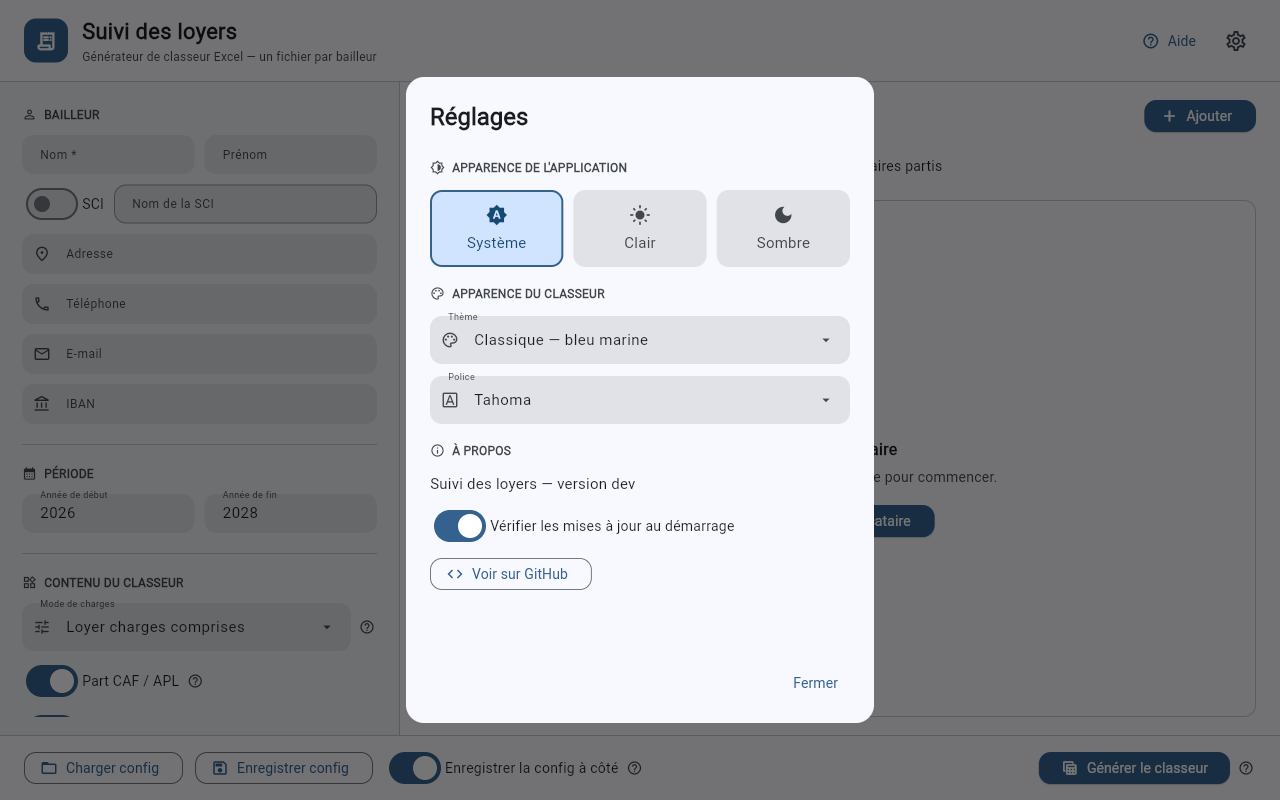
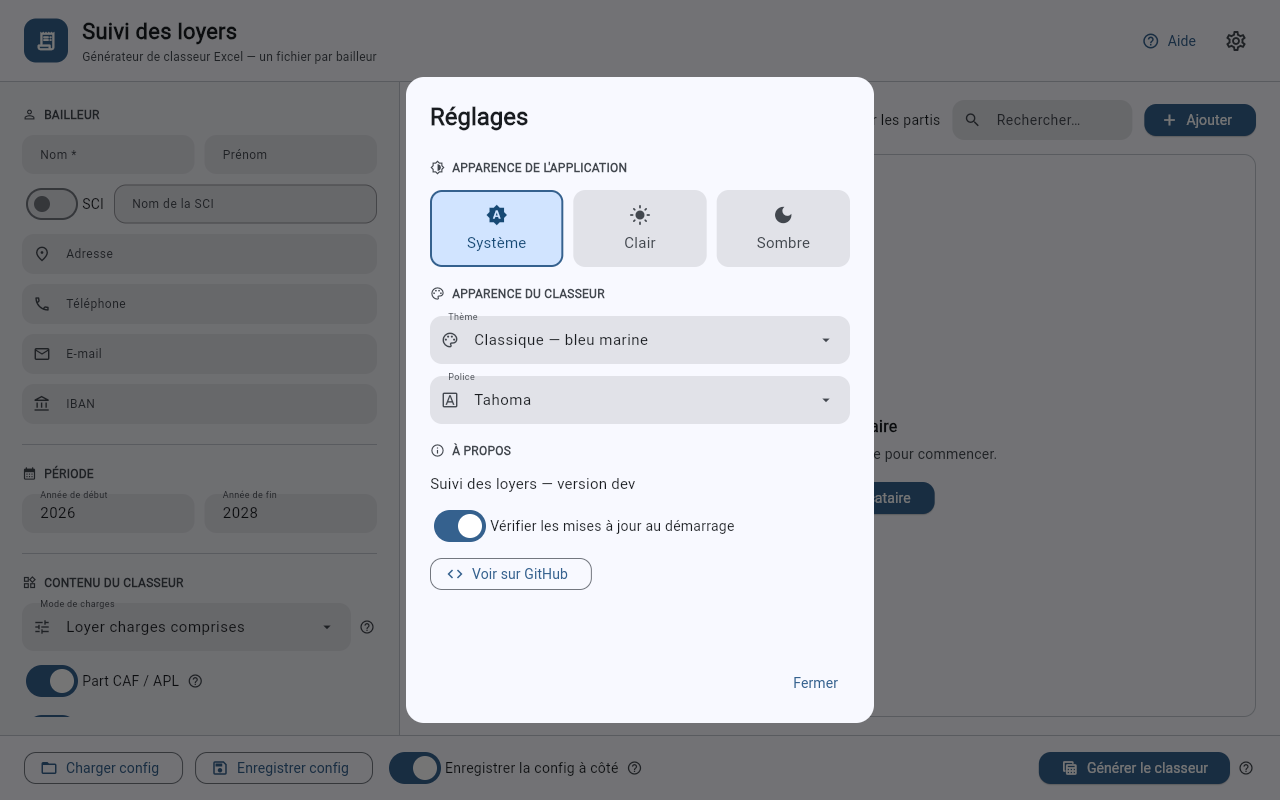
feat(ui): put the departed toggle, search and Add on the list title line
The tenant list used two lines above the table: the title with Add, then the
search field and the departed-tenants toggle. At the default window size they
now share the title line (toggle, search, Add), which gives the table back
about 46 px of height. The toggle label becomes "Afficher les partis" and the
search field narrows to 180 px so that everything fits.

The counter takes the free space of the line, with an ellipsis if needed, so
the controls do not move when its text changes ("2 / 3 · 1 parti masqué"
still fits at 1180 px). Below about 1130 px of window width the controls move
under the title instead of being clipped, and the search field then takes the
remaining width. The same controls are moved between the two layouts, which
Flet 1.0 supports: live resizing with a search in progress keeps the text and
the toggle state. README screenshots are updated.

diff --git a/interface_flet.py b/interface_flet.py
@@ -214,6 +214,20 @@ def _colonnes_pour_largeur(cols: list[dict], largeur: float | None) -> list[dict
     return gardees
 
 
+# Barre au-dessus de la liste : « Afficher les partis », la recherche et « Ajouter » sur la
+# ligne du titre. Sous LARGEUR_BARRE_UNE_LIGNE px de tableau, ils passent sous le titre au
+# lieu d'être coupés. Calibrés par rendu : une ligne à la largeur par défaut de la fenêtre
+# (1180 px, tableau ≈ 730 px), deux à la largeur minimale (1000 px, ≈ 550 px).
+LARGEUR_RECHERCHE = 180
+LARGEUR_BARRE_UNE_LIGNE = 680
+
+
+def _barre_sur_une_ligne(largeur: float | None) -> bool:
+    """Titre, compteur et commandes de la liste tiennent-ils sur une ligne dans `largeur`
+    px ? Largeur inconnue (avant le premier rendu) : oui, comme à la taille par défaut."""
+    return not largeur or largeur >= LARGEUR_BARRE_UNE_LIGNE
+
+
 def _libelle_compteur(n_total: int, n_affiches: int, n_partis_masques: int) -> str:
     base = (f"{n_affiches} / {n_total}" if n_affiches != n_total
             else f"{n_total} locataire{'s' if n_total > 1 else ''}")
@@ -764,7 +778,7 @@ class AppLoyers:
         self._largeur_table = None    # px, connue après le 1er rendu (colonnes affichées)
         self._reglages = _charger_reglages()
         self._maj_active = bool(self._reglages.get("verifier_maj", True))
-        # Toggle « Afficher les locataires partis » : affichés par défaut (non-régression).
+        # Toggle « Afficher les partis » : affichés par défaut (non-régression).
         self._afficher_partis = bool(self._reglages.get("afficher_partis", True))
         # Sauvegarde automatique de la saisie en cours (session.json).
         self._verrou_session = threading.Lock()
@@ -1236,11 +1250,16 @@ class AppLoyers:
 
     def _on_taille_table(self, e):
         """Largeur du tableau changée (fenêtre redimensionnée) : ne redessine que si
-        l'ensemble des colonnes affichées change."""
+        l'ensemble des colonnes affichées ou la disposition de la barre change."""
+        barre = _barre_sur_une_ligne(e.width) != _barre_sur_une_ligne(self._largeur_table)
         self._largeur_table = e.width
+        if barre:
+            self._disposer_barre()
         avant = [c["cle"] for c in self._cols_courantes]
         if [c["cle"] for c in _colonnes_pour_largeur(self._colonnes(), e.width)] != avant:
             self._rafraichir_table()
+        elif barre:
+            self.page.update()
 
     def _rafraichir_table(self):
         self._cols_courantes = _colonnes_pour_largeur(self._colonnes(), self._largeur_table)
@@ -1865,14 +1884,17 @@ class AppLoyers:
                 ft.Text("Locataires partis masqués", size=16,
                         weight=ft.FontWeight.W_600),
                 ft.Text("Les locataires correspondants sont tous partis. Activez "
-                        "« Afficher les locataires partis » pour les voir.",
+                        "« Afficher les partis » pour les voir.",
                         color=C_MUTED, text_align=ft.TextAlign.CENTER),
             ], horizontal_alignment=ft.CrossAxisAlignment.CENTER, spacing=6,
                 tight=True),
             alignment=ft.Alignment.CENTER, expand=True)
 
     def _zone_principale(self) -> ft.Control:
-        self._compteur = ft.Text("0 locataire", size=TS_LABEL, color=C_MUTED)
+        # Le compteur occupe la place libre de la barre (points de suspension s'il en
+        # manque) : les commandes ne bougent pas quand son texte change.
+        self._compteur = ft.Text("0 locataire", size=TS_LABEL, color=C_MUTED, expand=True,
+                                 max_lines=1, overflow=ft.TextOverflow.ELLIPSIS)
         self._zone_loc = ft.Container(expand=True, on_size_change=self._on_taille_table)
 
         cadre = ft.Container(
@@ -1881,34 +1903,46 @@ class AppLoyers:
             padding=0, clip_behavior=ft.ClipBehavior.HARD_EDGE)
 
         self._champ_recherche = ft.TextField(
-            hint_text="Rechercher…", width=260, filled=True, bgcolor=C_FIELD,
+            hint_text="Rechercher…", filled=True, bgcolor=C_FIELD,
             border=BORDURE_CHAMP, dense=True,
             prefix_icon=ft.Icons.SEARCH, on_change=self._on_recherche,
             text_style=ft.TextStyle(size=14),
             content_padding=ft.Padding.symmetric(vertical=8, horizontal=14))
 
         self._switch_partis = ft.Switch(
-            label="Afficher les locataires partis", value=self._afficher_partis,
+            label="Afficher les partis", value=self._afficher_partis,
             on_change=self._on_toggle_partis,
             tooltip="Affichage seulement : le classeur garde tous les locataires.")
 
-        barre = ft.Row([
-            ft.Row([ft.Text("Locataires", size=TS_TITRE, weight=ft.FontWeight.W_700),
-                    self._compteur], spacing=12,
-                   vertical_alignment=ft.CrossAxisAlignment.CENTER),
-            ft.FilledButton("Ajouter", icon=ft.Icons.ADD,
-                            on_click=self._ajouter_loc, style=STYLE_BTN),
-        ], alignment=ft.MainAxisAlignment.SPACE_BETWEEN,
-            vertical_alignment=ft.CrossAxisAlignment.CENTER)
-
-        # Ligne de filtres (affichage seulement) séparée des actions : tient dans la
-        # largeur minimale de la fenêtre.
-        filtres = ft.Row([self._champ_recherche, self._switch_partis], spacing=16,
-                         vertical_alignment=ft.CrossAxisAlignment.CENTER)
+        self._btn_ajouter = ft.FilledButton("Ajouter", icon=ft.Icons.ADD,
+                                            on_click=self._ajouter_loc, style=STYLE_BTN)
+        self._barre = ft.Container()
+        self._disposer_barre()
 
         return ft.Container(
-            ft.Column([barre, filtres, cadre], spacing=14, expand=True),
+            ft.Column([self._barre, cadre], spacing=14, expand=True),
             expand=True, padding=ft.Padding.symmetric(vertical=18, horizontal=24))
+
+    def _disposer_barre(self):
+        """Barre de la liste sur une ligne, ou commandes sous le titre si le tableau est
+        trop étroit (cf. _barre_sur_une_ligne). Les mêmes contrôles changent de ligne : la
+        recherche en cours et l'interrupteur gardent leur état."""
+        titre = ft.Text("Locataires", size=TS_TITRE, weight=ft.FontWeight.W_700)
+        commandes = [self._switch_partis, self._champ_recherche, self._btn_ajouter]
+        centre = ft.CrossAxisAlignment.CENTER
+        if _barre_sur_une_ligne(self._largeur_table):
+            self._champ_recherche.width = LARGEUR_RECHERCHE
+            self._champ_recherche.expand = None
+            self._barre.content = ft.Row([titre, self._compteur, *commandes], spacing=12,
+                                         vertical_alignment=centre)
+        else:
+            # Commandes sous le titre : la recherche prend la largeur restante.
+            self._champ_recherche.width = None
+            self._champ_recherche.expand = True
+            self._barre.content = ft.Column([
+                ft.Row([titre, self._compteur], spacing=12, vertical_alignment=centre),
+                ft.Row(commandes, spacing=12, vertical_alignment=centre),
+            ], spacing=14)
 
     def _pied(self) -> ft.Control:
         self._enregistrer_aussi = ft.Switch(label="Enregistrer la config à côté",

diff --git a/tests/ui_filtres.py b/tests/ui_filtres.py
@@ -1,9 +1,9 @@
 """Test du filtrage de la table Locataires de l'interface (sans affichage).
 
 Couvre les fonctions pures de `interface_flet` : recherche texte, masquage des
-locataires partis (toggle « Afficher les locataires partis »), libellé du compteur
-et colonnes affichées selon la largeur du tableau. Importer `interface_flet` demande
-Flet, mais aucune fenêtre n'est ouverte.
+locataires partis (toggle « Afficher les partis »), libellé du compteur, colonnes
+affichées et disposition de la barre selon la largeur du tableau. Importer
+`interface_flet` demande Flet, mais aucune fenêtre n'est ouverte.
 """
 
 import sys
@@ -79,6 +79,12 @@ def main() -> int:
         _nom_complet=lambda loc: ""))
     assert [c["cle"] for c in ui._colonnes_pour_largeur(sans_caf, 730)] == \
         [c for c in toutes if c != "caf"]
+
+    # Barre de la liste (« Afficher les partis », recherche, « Ajouter ») : sur la ligne du
+    # titre à la largeur par défaut, sous le titre en fenêtre minimale plutôt que coupée.
+    assert ui._barre_sur_une_ligne(None)         # avant le premier rendu
+    assert ui._barre_sur_une_ligne(730)
+    assert not ui._barre_sur_une_ligne(550)
 
     print("UI FILTRES OK")
     return 0

diff --git a/CLAUDE.md b/CLAUDE.md
@@ -52,13 +52,16 @@ porter une couleur explicite (`ft.Colors.ON_SURFACE`) sinon le texte reste blanc
 Réglages persistés par `_charger_reglages`/`_enregistrer_reglages` (→ `%APPDATA%/SuiviLoyers/
 settings.json`) ; la clé `verifier_maj` pilote la **vérification de mise à jour** au démarrage
 (thread, API GitHub `releases/latest`, silencieuse hors-ligne, notif SnackBar + lien). La clé
-`afficher_partis` (défaut `true`) mémorise le toggle « Afficher les locataires partis » de la
+`afficher_partis` (défaut `true`) mémorise le toggle « Afficher les partis » de la
 table : **filtre d'affichage seulement**, le classeur garde tous les locataires. Le filtrage
 vit dans des fonctions pures de module (`_filtrer_locataires`, `_partis_masques`,
 `_libelle_compteur`, `_est_parti`), testées par `tests/ui_filtres.py`, comme le choix des
 colonnes selon la largeur du tableau (`_colonnes_pour_largeur` : chaque colonne a une largeur
 lisible `min` et un ordre de retrait `masquable` ; calibrés pour que tout tienne à la largeur
-par défaut, 1180 px). La clé `classeurs`
+par défaut, 1180 px) et la disposition de la barre au-dessus (`_barre_sur_une_ligne` : toggle,
+recherche et « Ajouter » sur la ligne du titre, ou dessous en fenêtre étroite ; le compteur
+prend la place libre pour que les commandes ne bougent pas quand son texte change ;
+`_disposer_barre` déplace les mêmes contrôles, ce que Flet 1.0 gère). La clé `classeurs`
 (slug du bailleur → chemin) mémorise le **dernier classeur généré**, proposé d'office à la
 génération ; si le fichier choisi ne porte pas les saisies attendues (neuf, vide, autre
 classeur), l'interface demande d'où les reprendre (`_cas_reprise`) puis affiche un compte

diff --git a/README.md b/README.md
@@ -95,16 +95,17 @@ pour l'enregistrer ailleurs.
 ### La liste des locataires
 
 La liste se trie en cliquant sur l'en-tête d'une colonne, et se filtre avec le champ
-**Rechercher** (nom, prénom, bien ou adresse). L'interrupteur **Afficher les locataires
-partis** masque les anciens locataires de la liste. Il ne touche qu'à l'affichage : le
-classeur les garde tous, avec leur historique.
+**Rechercher** (nom, prénom, bien ou adresse). L'interrupteur **Afficher les partis**
+masque les anciens locataires de la liste. Il ne touche qu'à l'affichage : le classeur les
+garde tous, avec leur historique.
 
 Supprimer un locataire demande une confirmation : ses saisies ne seraient plus reportées
 dans le classeur. Pour un locataire qui part, indiquez plutôt une date de sortie.
 
 Dans une fenêtre étroite, la liste masque les colonnes les moins utiles (Adresse, puis CAF,
-Période et Bien) pour garder le nom, le loyer et l'état lisibles. Agrandissez la fenêtre pour
-les retrouver.
+Période et Bien) pour garder le nom, le loyer et l'état lisibles, et la recherche passe sous
+le titre avec l'interrupteur et le bouton **Ajouter**. Agrandissez la fenêtre pour retrouver
+les colonnes.
 
 ### Changer de locataire
 

diff --git a/CHANGELOG.md b/CHANGELOG.md
@@ -21,6 +21,9 @@ Les changements notables de chaque version. Le format suit
 - Dans une fenêtre étroite, la liste des locataires masque les colonnes les moins utiles
   (Adresse, puis CAF, Période et Bien) au lieu de toutes les tronquer : le nom, le loyer et
   l'état restent lisibles. À la taille de fenêtre par défaut, rien ne change.
+- L'interrupteur des partis, la recherche et le bouton « Ajouter » sont sur la ligne du titre
+  de la liste, qui gagne une ligne de hauteur. L'interrupteur s'appelle maintenant « Afficher
+  les partis ». Dans une fenêtre étroite, ces commandes passent sous le titre.
 
 ## [1.2.1] - 2026-10-29
 
